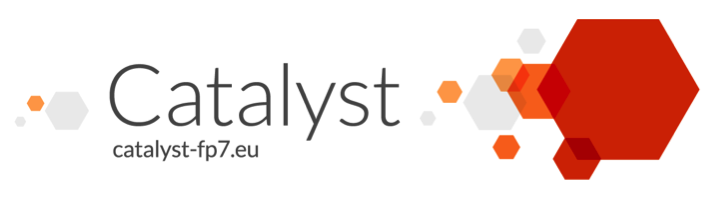
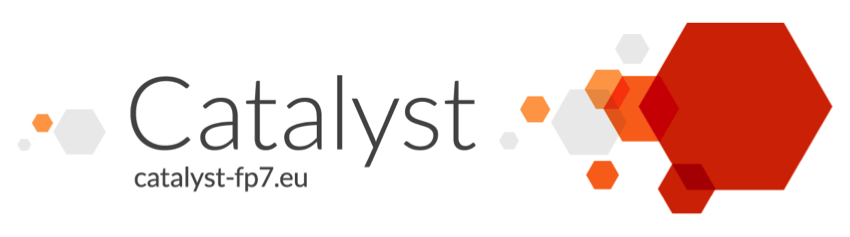
layout

diff --git a/latex/mmd-catalyst-header2.tex b/latex/mmd-catalyst-header2.tex
@@ -65,8 +65,8 @@
 \setlength\parindent{0pt}
 \setlength\parskip{10pt}
 
-\setlength\headheight{0.82in}
-\setlength\topmargin{-2.2cm}
+\setlength\headheight{40pt}
+\setlength\topmargin{-1.25cm}
 \setlength\uppermargin{0.9in}
 \setlength\textheight{23.5cm}
 \setlength\footskip{1.5cm}
@@ -74,17 +74,18 @@
 \setsecnumdepth{subsubsection}
 
 \makepagestyle{catalystp}
-\makeevenhead{catalystp}{}{\includegraphics{images/catalyst_header.png}}{\includegraphics{images/europe.png}}
-\makeoddhead{catalystp}{}{\includegraphics{images/catalyst_header.png}}{\includegraphics{images/europe.png}}
+\makeevenhead{catalystp}{}{\includegraphics{images/catalyst_header.png}}{}
+\makeoddhead{catalystp}{}{\includegraphics{images/catalyst_header.png}}{}
 \makeevenfoot{catalystp}{%
+\setlength\parskip{0pt}%
 \tiny\textcolor{myorange}{\docnumber~\mytitle}\textcolor{gray}{ • }\textcolor{myorange}{\monthname~\the\year}\textcolor{gray}{ • }\textcolor{myorange}{\affiliation}\par
-\textcolor{gray}{The CATALYST project is supported by the European Commission under its FP7 research funding programme}
-}{}{\small \textcolor{gray}{Page {\bfseries\thepage} of {\bfseries\lastpageref{LastPages}}}}
+\textcolor{gray}{The CATALYST project has received funding from the European Union's Seventh Framework Programme for research,\newline{}technological development and demonstration under grant agreement n\textordmasculine{}6611188}\setlength\parskip{10pt}
+}{}{\footnotesize \textcolor{gray}{Page {\bfseries\thepage} of {\bfseries\lastpageref{LastPages}}}}
 \makeoddfoot{catalystp}{%
+\setlength\parskip{0pt}%
 \tiny\textcolor{myorange}{\docnumber~\mytitle}\textcolor{gray}{ • }\textcolor{myorange}{\monthname~\the\year}\textcolor{gray}{ • }\textcolor{myorange}{\affiliation}\par
-\textcolor{gray}{The CATALYST project is supported by the European Commission under its FP7 research funding programme}
-}{}{\small \textcolor{gray}{Page {\bfseries\thepage} of {\bfseries\lastpageref{LastPages}}}}
-
+\textcolor{gray}{The CATALYST project has received funding from the European Union's Seventh Framework Programme for research,\newline{}technological development and demonstration under grant agreement n\textordmasculine{}6611188}\setlength\parskip{10pt}
+}{}{\footnotesize \textcolor{gray}{Page {\bfseries\thepage} of {\bfseries\lastpageref{LastPages}}}}
 \begin{document}
 \title{\fulltitle}
 \author{\fullauthor}
@@ -109,28 +110,29 @@
 
 \maxtocdepth{subsection}
 
-
+\pagestyle{empty}
 \makeatletter
 \renewcommand{\@maketitle}{%
   \newpage
+  \thispagestyle{empty}
   \null
-  \vspace{-3.7cm}
   \begin{center}
   \includegraphics{images/catalyst_header_title.png} \par
-  \vspace{3cm}
-  \includegraphics[scale=0.7]{images/flag_yellow_eps.pdf} \par
   \end{center}
-  \vspace{2.5cm}
+  \vspace{2.75cm}
+  \small
+  \renewcommand{\arraystretch}{1.5}
   \begin{tabular}{l>{\bfseries}l}
   Project Acronym: & CATALYST \\
   Project Full Title: & Collective Applied Intelligence and Analytics for Social Innovation \\
   Grant Agreement: & 6611188 \\
   Project Duration: & 24 months (Oct. 2013 - Sept. 2015) \\
   \end{tabular}
-  \vspace{1.5cm}
+  \renewcommand{\arraystretch}{1}
+  \vspace{1.25cm}
   \begin{mdframed}[backgroundcolor=myorange, fontcolor=white, defaultunit=pt, linewidth=0, innerleftmargin=4, innerrightmargin=4, innertopmargin=10, innerbottommargin=10,skipabove=8,skipbelow=4]
   \begin{center}
-  \bfseries\large\docnumber  \mytitle\mdseries\normalsize
+  \bfseries\large\docnumber{} \mytitle\mdseries\normalsize
   \end{center}
   \end{mdframed}
 
@@ -147,8 +149,13 @@ Dissemination Level: & Public \\
 Task Leader: & \affiliation \\
   \end{tabular}
   \par
-  \vspace{2cm}
-  \footnotesize \textcopyright Copyright 2013-2015 The CATALYST FP7 consortium\par \normalsize
+  \vspace{3cm}
+  \begin{center}
+  \includegraphics[scale=0.15]{images/flag_yellow_eps.pdf} \par
+  \scriptsize
+  This project has received funding from the European Union's Seventh Framework Programme for research, technological development and demonstration under grant agreement n\textordmasculine{}6611188
+  \end{center}
+  \normalsize
 }
 \makeatother
 
@@ -161,8 +168,6 @@ Task Leader: & \affiliation \\
 \maketitle
 \mainmatter
 \pagestyle{catalystp}
-
-\clearpage
 
 \footnotesize
 The CATALYST project consortium is composed of:
@@ -211,11 +216,11 @@ All CATALYST consortium members are also committed to publish accurate and up to
 
 \clearpage
 
-\chapterstar{Executive summary}
+\chapter{Executive summary}
 
 \input{summary}
 
 \small
-The present document is a deliverable of the CATALYST project, which has received funding from the European Union’s Seventh Framework Programme for research, technological development and demonstration under grant agreement no 7.
+The present document is a deliverable of the CATALYST project, funded by the European Commission's Directorate-General for Communications Networks, Content \& Technology (DG CONNECT), under its 7th EU Framework Programme for Research and Technological Development (FP7).
 \clearpage
 

diff --git a/latex/mmd-catalyst-header.tex b/latex/mmd-catalyst-header.tex
@@ -1,4 +1,4 @@
-\documentclass[a4paper,article,11pt]{memoir}
+\documentclass[a4paper,article,openany,11pt]{memoir}
 
 %
 %	Generic Configuration for memoir-based documents
@@ -9,20 +9,11 @@
 
 % In case we need a glossary, or index
 \usepackage{glossaries}
+\usepackage{parskip}
+\usepackage{setspace}
 \glstoctrue
 \makeglossaries
 \makeindex
-
-
-% Basic page layout configuration
-\def\mychapterstyle{default}
-\def\mypagestyle{headings}
-
-
-% Use 8.5 x 11 inch page layout
-%
-%	8.5 x 11 layout for memoir-based documents
-%
 
 
 %%% need more space for ToC page numbers
